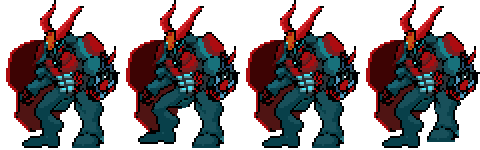
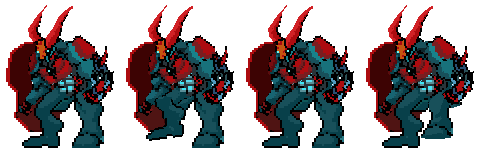
ntr animation enhance

diff --git a/src/scenes/Play.js b/src/scenes/Play.js
@@ -26,8 +26,6 @@ class Play extends Phaser.Scene {
         
         this.create_hitbox();
         this.createCollider();
-        
-        
         this.display_hp();
         this.add_bgm();   
     }
@@ -44,6 +42,7 @@ class Play extends Phaser.Scene {
         
         this.enemy.update();
         this.ntr_2.update();
+        this.add_ntr_anims();
         this.add_charge();
         this.lose();
         this.win();
@@ -150,7 +149,7 @@ class Play extends Phaser.Scene {
         });
         this.anims.create({
             key: "ntr_stand",
-            frames: this.anims.generateFrameNumbers('ntr_stand', { start: 0, end: 1, first: 0}),
+            frames: this.anims.generateFrameNumbers('ntr_stand', { start: 0, end: 4, first: 0}),
             frameRate: 4,
             repeat: -1
         });
@@ -246,7 +245,18 @@ class Play extends Phaser.Scene {
                 enemy.body.setVelocityX(0);
                 }
           }, this);
-
+    }
+    add_ntr_anims(){
+        this.ntr_group.getChildren().forEach(function(enemy) {
+            if (enemy.body.velocity.x == 0){
+                //enemy.anims.stop('ntr_charge');
+                enemy.anims.play('ntr_stand', true);
+            }
+            else{
+                //enemy.anims.stop('ntr_stand');
+                enemy.anims.play('ntr_charge', true);
+            }
+        });
     }
  
     //player attack

diff --git a/src/scenes/Load.js b/src/scenes/Load.js
@@ -50,8 +50,8 @@ class Load extends Phaser.Scene {
             endFrame: 1
         });
         this.load.spritesheet('ntr_charge', './assets/ntr_charge.png', {
-            frameWidth: 100,
-            frameHeight: 80,
+            frameWidth: 120,
+            frameHeight: 150,
             startFrame: 0, 
             endFrame: 3
         });
@@ -59,7 +59,7 @@ class Load extends Phaser.Scene {
             frameWidth: 120,
             frameHeight: 150,
             startFrame: 0, 
-            endFrame: 1
+            endFrame: 4
         });
         this.load.spritesheet('ntr_die', './assets/ntr_die.png', {
             frameWidth: 120,
